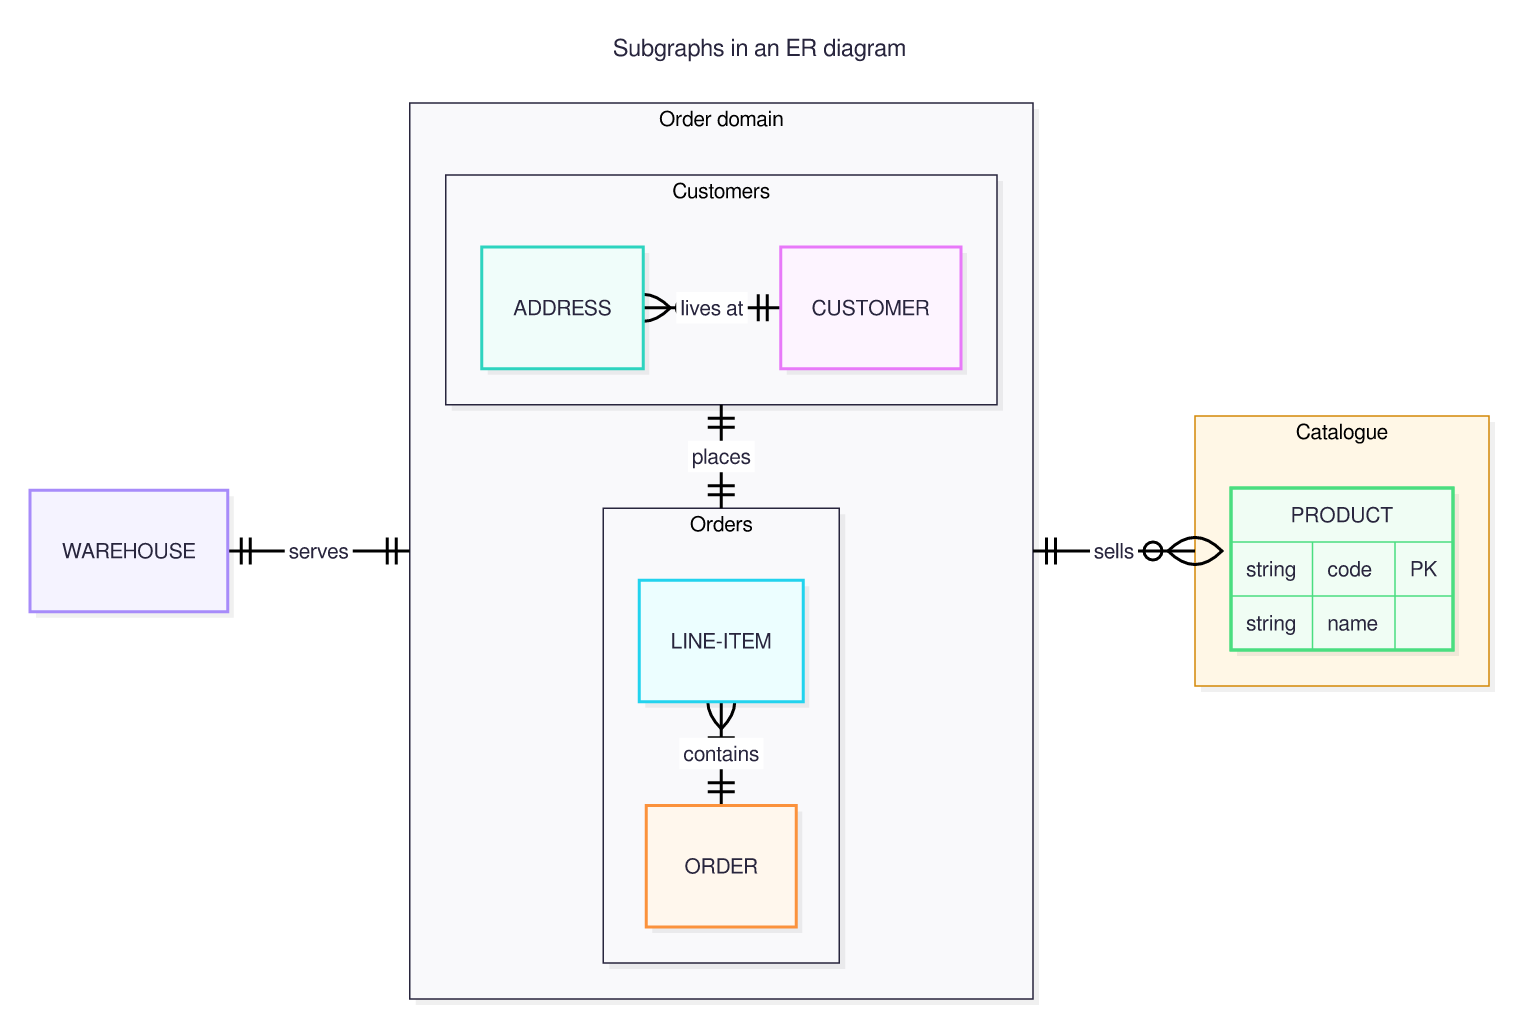
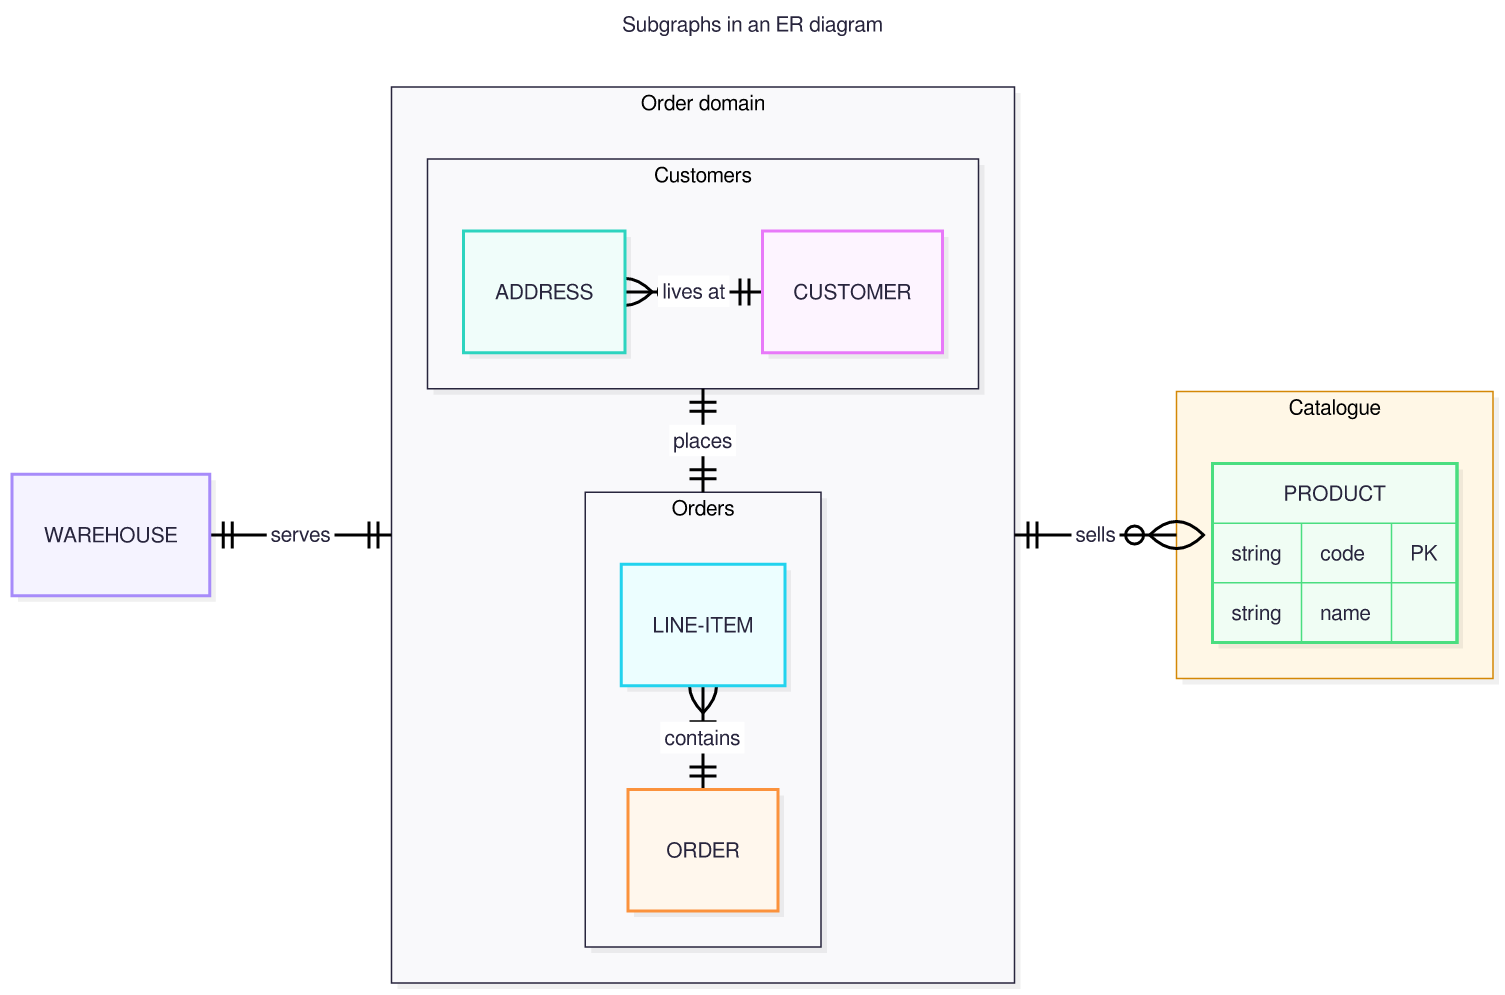
Regenerate gallery after ER sizing and ELK layering fixes
Claude-Session: https://claude.ai/code/session_01YSBvDqvT7DHspcB7hQZR6n

Changed region(s): [[0.0, 0.0935, 0.9993, 0.997], [0.406, 0.0, 0.5934, 0.0623], [0.406, 0.0935, 0.5309, 0.1246]]

diff --git a/docs/GALLERY.md b/docs/GALLERY.md
@@ -5,7 +5,7 @@ Regenerate with `cargo run --release --example gallery`.
 
 ## agentflow
 
-Source: [`examples/diagrams/agentflow.mmd`](../examples/diagrams/agentflow.mmd) · rendered in 668.24µs
+Source: [`examples/diagrams/agentflow.mmd`](../examples/diagrams/agentflow.mmd) · rendered in 653.56µs
 
 <details><summary>source</summary>
 
@@ -37,7 +37,7 @@ agentflow-beta TB
 
 ## architecture
 
-Source: [`examples/diagrams/architecture.mmd`](../examples/diagrams/architecture.mmd) · rendered in 223.06µs
+Source: [`examples/diagrams/architecture.mmd`](../examples/diagrams/architecture.mmd) · rendered in 198.90µs
 
 <details><summary>source</summary>
 
@@ -74,7 +74,7 @@ architecture-beta
 
 ## block
 
-Source: [`examples/diagrams/block.mmd`](../examples/diagrams/block.mmd) · rendered in 222.88µs
+Source: [`examples/diagrams/block.mmd`](../examples/diagrams/block.mmd) · rendered in 218.44µs
 
 <details><summary>source</summary>
 
@@ -109,7 +109,7 @@ block-beta
 
 ## c4-container
 
-Source: [`examples/diagrams/c4-container.mmd`](../examples/diagrams/c4-container.mmd) · rendered in 444.89µs
+Source: [`examples/diagrams/c4-container.mmd`](../examples/diagrams/c4-container.mmd) · rendered in 461.34µs
 
 <details><summary>source</summary>
 
@@ -154,7 +154,7 @@ C4Container
 
 ## c4
 
-Source: [`examples/diagrams/c4.mmd`](../examples/diagrams/c4.mmd) · rendered in 470.76µs
+Source: [`examples/diagrams/c4.mmd`](../examples/diagrams/c4.mmd) · rendered in 453.82µs
 
 <details><summary>source</summary>
 
@@ -209,7 +209,7 @@ C4Context
 
 ## class
 
-Source: [`examples/diagrams/class.mmd`](../examples/diagrams/class.mmd) · rendered in 603.15µs
+Source: [`examples/diagrams/class.mmd`](../examples/diagrams/class.mmd) · rendered in 425.99µs
 
 <details><summary>source</summary>
 
@@ -249,7 +249,7 @@ classDiagram
 
 ## cynefin
 
-Source: [`examples/diagrams/cynefin.mmd`](../examples/diagrams/cynefin.mmd) · rendered in 311.63µs
+Source: [`examples/diagrams/cynefin.mmd`](../examples/diagrams/cynefin.mmd) · rendered in 155.03µs
 
 <details><summary>source</summary>
 
@@ -285,7 +285,7 @@ cynefin-beta
 
 ## er-subgraphs
 
-Source: [`examples/diagrams/er-subgraphs.mmd`](../examples/diagrams/er-subgraphs.mmd) · rendered in 879.38µs
+Source: [`examples/diagrams/er-subgraphs.mmd`](../examples/diagrams/er-subgraphs.mmd) · rendered in 468.03µs
 
 <details><summary>source</summary>
 
@@ -325,7 +325,7 @@ erDiagram
 
 ## er
 
-Source: [`examples/diagrams/er.mmd`](../examples/diagrams/er.mmd) · rendered in 666.45µs
+Source: [`examples/diagrams/er.mmd`](../examples/diagrams/er.mmd) · rendered in 565.71µs
 
 <details><summary>source</summary>
 
@@ -377,7 +377,7 @@ erDiagram
 
 ## eventmodeling
 
-Source: [`examples/diagrams/eventmodeling.mmd`](../examples/diagrams/eventmodeling.mmd) · rendered in 272.38µs
+Source: [`examples/diagrams/eventmodeling.mmd`](../examples/diagrams/eventmodeling.mmd) · rendered in 160.42µs
 
 <details><summary>source</summary>
 
@@ -401,7 +401,7 @@ tf 08 rmo CartItems ->> 03 ->> 07
 
 ## flowchart
 
-Source: [`examples/diagrams/flowchart.mmd`](../examples/diagrams/flowchart.mmd) · rendered in 408.02µs
+Source: [`examples/diagrams/flowchart.mmd`](../examples/diagrams/flowchart.mmd) · rendered in 413.76µs
 
 <details><summary>source</summary>
 
@@ -429,7 +429,7 @@ flowchart TD
 
 ## gantt
 
-Source: [`examples/diagrams/gantt.mmd`](../examples/diagrams/gantt.mmd) · rendered in 1.28ms
+Source: [`examples/diagrams/gantt.mmd`](../examples/diagrams/gantt.mmd) · rendered in 846.07µs
 
 <details><summary>source</summary>
 
@@ -469,7 +469,7 @@ gantt
 
 ## gitgraph
 
-Source: [`examples/diagrams/gitgraph.mmd`](../examples/diagrams/gitgraph.mmd) · rendered in 190.08µs
+Source: [`examples/diagrams/gitgraph.mmd`](../examples/diagrams/gitgraph.mmd) · rendered in 185.95µs
 
 <details><summary>source</summary>
 
@@ -507,7 +507,7 @@ gitGraph
 
 ## info
 
-Source: [`examples/diagrams/info.mmd`](../examples/diagrams/info.mmd) · rendered in 105.62µs
+Source: [`examples/diagrams/info.mmd`](../examples/diagrams/info.mmd) · rendered in 105.35µs
 
 <details><summary>source</summary>
 
@@ -521,7 +521,7 @@ info showInfo
 
 ## ishikawa
 
-Source: [`examples/diagrams/ishikawa.mmd`](../examples/diagrams/ishikawa.mmd) · rendered in 222.41µs
+Source: [`examples/diagrams/ishikawa.mmd`](../examples/diagrams/ishikawa.mmd) · rendered in 181.12µs
 
 <details><summary>source</summary>
 
@@ -554,7 +554,7 @@ ishikawa-beta
 
 ## journey
 
-Source: [`examples/diagrams/journey.mmd`](../examples/diagrams/journey.mmd) · rendered in 320.71µs
+Source: [`examples/diagrams/journey.mmd`](../examples/diagrams/journey.mmd) · rendered in 315.64µs
 
 <details><summary>source</summary>
 
@@ -579,7 +579,7 @@ journey
 
 ## kanban
 
-Source: [`examples/diagrams/kanban.mmd`](../examples/diagrams/kanban.mmd) · rendered in 303.64µs
+Source: [`examples/diagrams/kanban.mmd`](../examples/diagrams/kanban.mmd) · rendered in 248.24µs
 
 <details><summary>source</summary>
 
@@ -614,7 +614,7 @@ kanban
 
 ## mindmap
 
-Source: [`examples/diagrams/mindmap.mmd`](../examples/diagrams/mindmap.mmd) · rendered in 262.86µs
+Source: [`examples/diagrams/mindmap.mmd`](../examples/diagrams/mindmap.mmd) · rendered in 247.68µs
 
 <details><summary>source</summary>
 
@@ -652,7 +652,7 @@ mindmap
 
 ## packet
 
-Source: [`examples/diagrams/packet.mmd`](../examples/diagrams/packet.mmd) · rendered in 345.96µs
+Source: [`examples/diagrams/packet.mmd`](../examples/diagrams/packet.mmd) · rendered in 392.53µs
 
 <details><summary>source</summary>
 
@@ -686,7 +686,7 @@ packet-beta
 
 ## pie
 
-Source: [`examples/diagrams/pie.mmd`](../examples/diagrams/pie.mmd) · rendered in 134.22µs
+Source: [`examples/diagrams/pie.mmd`](../examples/diagrams/pie.mmd) · rendered in 147.99µs
 
 <details><summary>source</summary>
 
@@ -705,7 +705,7 @@ pie showData
 
 ## quadrant
 
-Source: [`examples/diagrams/quadrant.mmd`](../examples/diagrams/quadrant.mmd) · rendered in 450.31µs
+Source: [`examples/diagrams/quadrant.mmd`](../examples/diagrams/quadrant.mmd) · rendered in 157.16µs
 
 <details><summary>source</summary>
 
@@ -734,7 +734,7 @@ quadrantChart
 
 ## radar
 
-Source: [`examples/diagrams/radar.mmd`](../examples/diagrams/radar.mmd) · rendered in 214.08µs
+Source: [`examples/diagrams/radar.mmd`](../examples/diagrams/radar.mmd) · rendered in 186.56µs
 
 <details><summary>source</summary>
 
@@ -762,7 +762,7 @@ radar-beta
 
 ## railroad-abnf
 
-Source: [`examples/diagrams/railroad-abnf.mmd`](../examples/diagrams/railroad-abnf.mmd) · rendered in 229.66µs
+Source: [`examples/diagrams/railroad-abnf.mmd`](../examples/diagrams/railroad-abnf.mmd) · rendered in 198.30µs
 
 <details><summary>source</summary>
 
@@ -783,7 +783,7 @@ port = [ ":" ] 1*5DIGIT %x30-39 ;
 
 ## railroad-ir
 
-Source: [`examples/diagrams/railroad-ir.mmd`](../examples/diagrams/railroad-ir.mmd) · rendered in 230.30µs
+Source: [`examples/diagrams/railroad-ir.mmd`](../examples/diagrams/railroad-ir.mmd) · rendered in 208.59µs
 
 <details><summary>source</summary>
 
@@ -811,7 +811,7 @@ number = sequence(optional(terminal("-")), oneOrMore(nonterminal("digit")), spec
 
 ## railroad-peg
 
-Source: [`examples/diagrams/railroad-peg.mmd`](../examples/diagrams/railroad-peg.mmd) · rendered in 186.78µs
+Source: [`examples/diagrams/railroad-peg.mmd`](../examples/diagrams/railroad-peg.mmd) · rendered in 215.02µs
 
 <details><summary>source</summary>
 
@@ -832,7 +832,7 @@ Identifier <- !Keyword Letter Letter* . ;
 
 ## railroad
 
-Source: [`examples/diagrams/railroad.mmd`](../examples/diagrams/railroad.mmd) · rendered in 428.26µs
+Source: [`examples/diagrams/railroad.mmd`](../examples/diagrams/railroad.mmd) · rendered in 240.90µs
 
 <details><summary>source</summary>
 
@@ -854,7 +854,7 @@ string = '"' { ? any character except quote ? } '"' ;
 
 ## requirement
 
-Source: [`examples/diagrams/requirement.mmd`](../examples/diagrams/requirement.mmd) · rendered in 434.13µs
+Source: [`examples/diagrams/requirement.mmd`](../examples/diagrams/requirement.mmd) · rendered in 451.68µs
 
 <details><summary>source</summary>
 
@@ -936,7 +936,7 @@ requirementDiagram
 
 ## sankey
 
-Source: [`examples/diagrams/sankey.mmd`](../examples/diagrams/sankey.mmd) · rendered in 885.66µs
+Source: [`examples/diagrams/sankey.mmd`](../examples/diagrams/sankey.mmd) · rendered in 899.91µs
 
 <details><summary>source</summary>
 
@@ -981,7 +981,7 @@ Electricity grid,"Heating and cooling, homes",42.0
 
 ## sequence
 
-Source: [`examples/diagrams/sequence.mmd`](../examples/diagrams/sequence.mmd) · rendered in 258.00µs
+Source: [`examples/diagrams/sequence.mmd`](../examples/diagrams/sequence.mmd) · rendered in 293.95µs
 
 <details><summary>source</summary>
 
@@ -1016,7 +1016,7 @@ sequenceDiagram
 
 ## shapes
 
-Source: [`examples/diagrams/shapes.mmd`](../examples/diagrams/shapes.mmd) · rendered in 1.15ms
+Source: [`examples/diagrams/shapes.mmd`](../examples/diagrams/shapes.mmd) · rendered in 1.30ms
 
 <details><summary>source</summary>
 
@@ -1052,7 +1052,7 @@ flowchart LR
 
 ## state
 
-Source: [`examples/diagrams/state.mmd`](../examples/diagrams/state.mmd) · rendered in 585.28µs
+Source: [`examples/diagrams/state.mmd`](../examples/diagrams/state.mmd) · rendered in 534.15µs
 
 <details><summary>source</summary>
 
@@ -1080,7 +1080,7 @@ stateDiagram-v2
 
 ## subgraph-collapse
 
-Source: [`examples/diagrams/subgraph-collapse.mmd`](../examples/diagrams/subgraph-collapse.mmd) · rendered in 522.00µs
+Source: [`examples/diagrams/subgraph-collapse.mmd`](../examples/diagrams/subgraph-collapse.mmd) · rendered in 489.24µs
 
 <details><summary>source</summary>
 
@@ -1110,7 +1110,7 @@ flowchart LR
 
 ## subgraphs
 
-Source: [`examples/diagrams/subgraphs.mmd`](../examples/diagrams/subgraphs.mmd) · rendered in 563.39µs
+Source: [`examples/diagrams/subgraphs.mmd`](../examples/diagrams/subgraphs.mmd) · rendered in 585.26µs
 
 <details><summary>source</summary>
 
@@ -1141,7 +1141,7 @@ flowchart LR
 
 ## swimlane
 
-Source: [`examples/diagrams/swimlane.mmd`](../examples/diagrams/swimlane.mmd) · rendered in 251.21µs
+Source: [`examples/diagrams/swimlane.mmd`](../examples/diagrams/swimlane.mmd) · rendered in 292.30µs
 
 <details><summary>source</summary>
 
@@ -1171,7 +1171,7 @@ swimlane-beta LR
 
 ## timeline
 
-Source: [`examples/diagrams/timeline.mmd`](../examples/diagrams/timeline.mmd) · rendered in 312.57µs
+Source: [`examples/diagrams/timeline.mmd`](../examples/diagrams/timeline.mmd) · rendered in 343.83µs
 
 <details><summary>source</summary>
 
@@ -1196,7 +1196,7 @@ timeline
 
 ## treemap
 
-Source: [`examples/diagrams/treemap.mmd`](../examples/diagrams/treemap.mmd) · rendered in 246.22µs
+Source: [`examples/diagrams/treemap.mmd`](../examples/diagrams/treemap.mmd) · rendered in 186.62µs
 
 <details><summary>source</summary>
 
@@ -1233,7 +1233,7 @@ classDef highlight fill:#ffd166,stroke:#c77d00,color:#000
 
 ## treeview
 
-Source: [`examples/diagrams/treeview.mmd`](../examples/diagrams/treeview.mmd) · rendered in 159.95µs
+Source: [`examples/diagrams/treeview.mmd`](../examples/diagrams/treeview.mmd) · rendered in 164.04µs
 
 <details><summary>source</summary>
 
@@ -1259,7 +1259,7 @@ treeView-beta
 
 ## usecase
 
-Source: [`examples/diagrams/usecase.mmd`](../examples/diagrams/usecase.mmd) · rendered in 606.38µs
+Source: [`examples/diagrams/usecase.mmd`](../examples/diagrams/usecase.mmd) · rendered in 600.18µs
 
 <details><summary>source</summary>
 
@@ -1303,7 +1303,7 @@ style pays stroke:#6b46c1,stroke-width:2px
 
 ## venn
 
-Source: [`examples/diagrams/venn.mmd`](../examples/diagrams/venn.mmd) · rendered in 469.03µs
+Source: [`examples/diagrams/venn.mmd`](../examples/diagrams/venn.mmd) · rendered in 432.37µs
 
 <details><summary>source</summary>
 
@@ -1327,7 +1327,7 @@ venn-beta
 
 ## wardley
 
-Source: [`examples/diagrams/wardley.mmd`](../examples/diagrams/wardley.mmd) · rendered in 219.66µs
+Source: [`examples/diagrams/wardley.mmd`](../examples/diagrams/wardley.mmd) · rendered in 195.64µs
 
 <details><summary>source</summary>
 
@@ -1376,7 +1376,7 @@ note "Migrate to cloud-native database" [0.60, 0.50]
 
 ## xychart
 
-Source: [`examples/diagrams/xychart.mmd`](../examples/diagrams/xychart.mmd) · rendered in 221.18µs
+Source: [`examples/diagrams/xychart.mmd`](../examples/diagrams/xychart.mmd) · rendered in 197.51µs
 
 <details><summary>source</summary>
 
@@ -1396,7 +1396,7 @@ xychart-beta
 
 ## zenuml
 
-Source: [`examples/diagrams/zenuml.mmd`](../examples/diagrams/zenuml.mmd) · rendered in 252.50µs
+Source: [`examples/diagrams/zenuml.mmd`](../examples/diagrams/zenuml.mmd) · rendered in 283.23µs
 
 <details><summary>source</summary>
 
